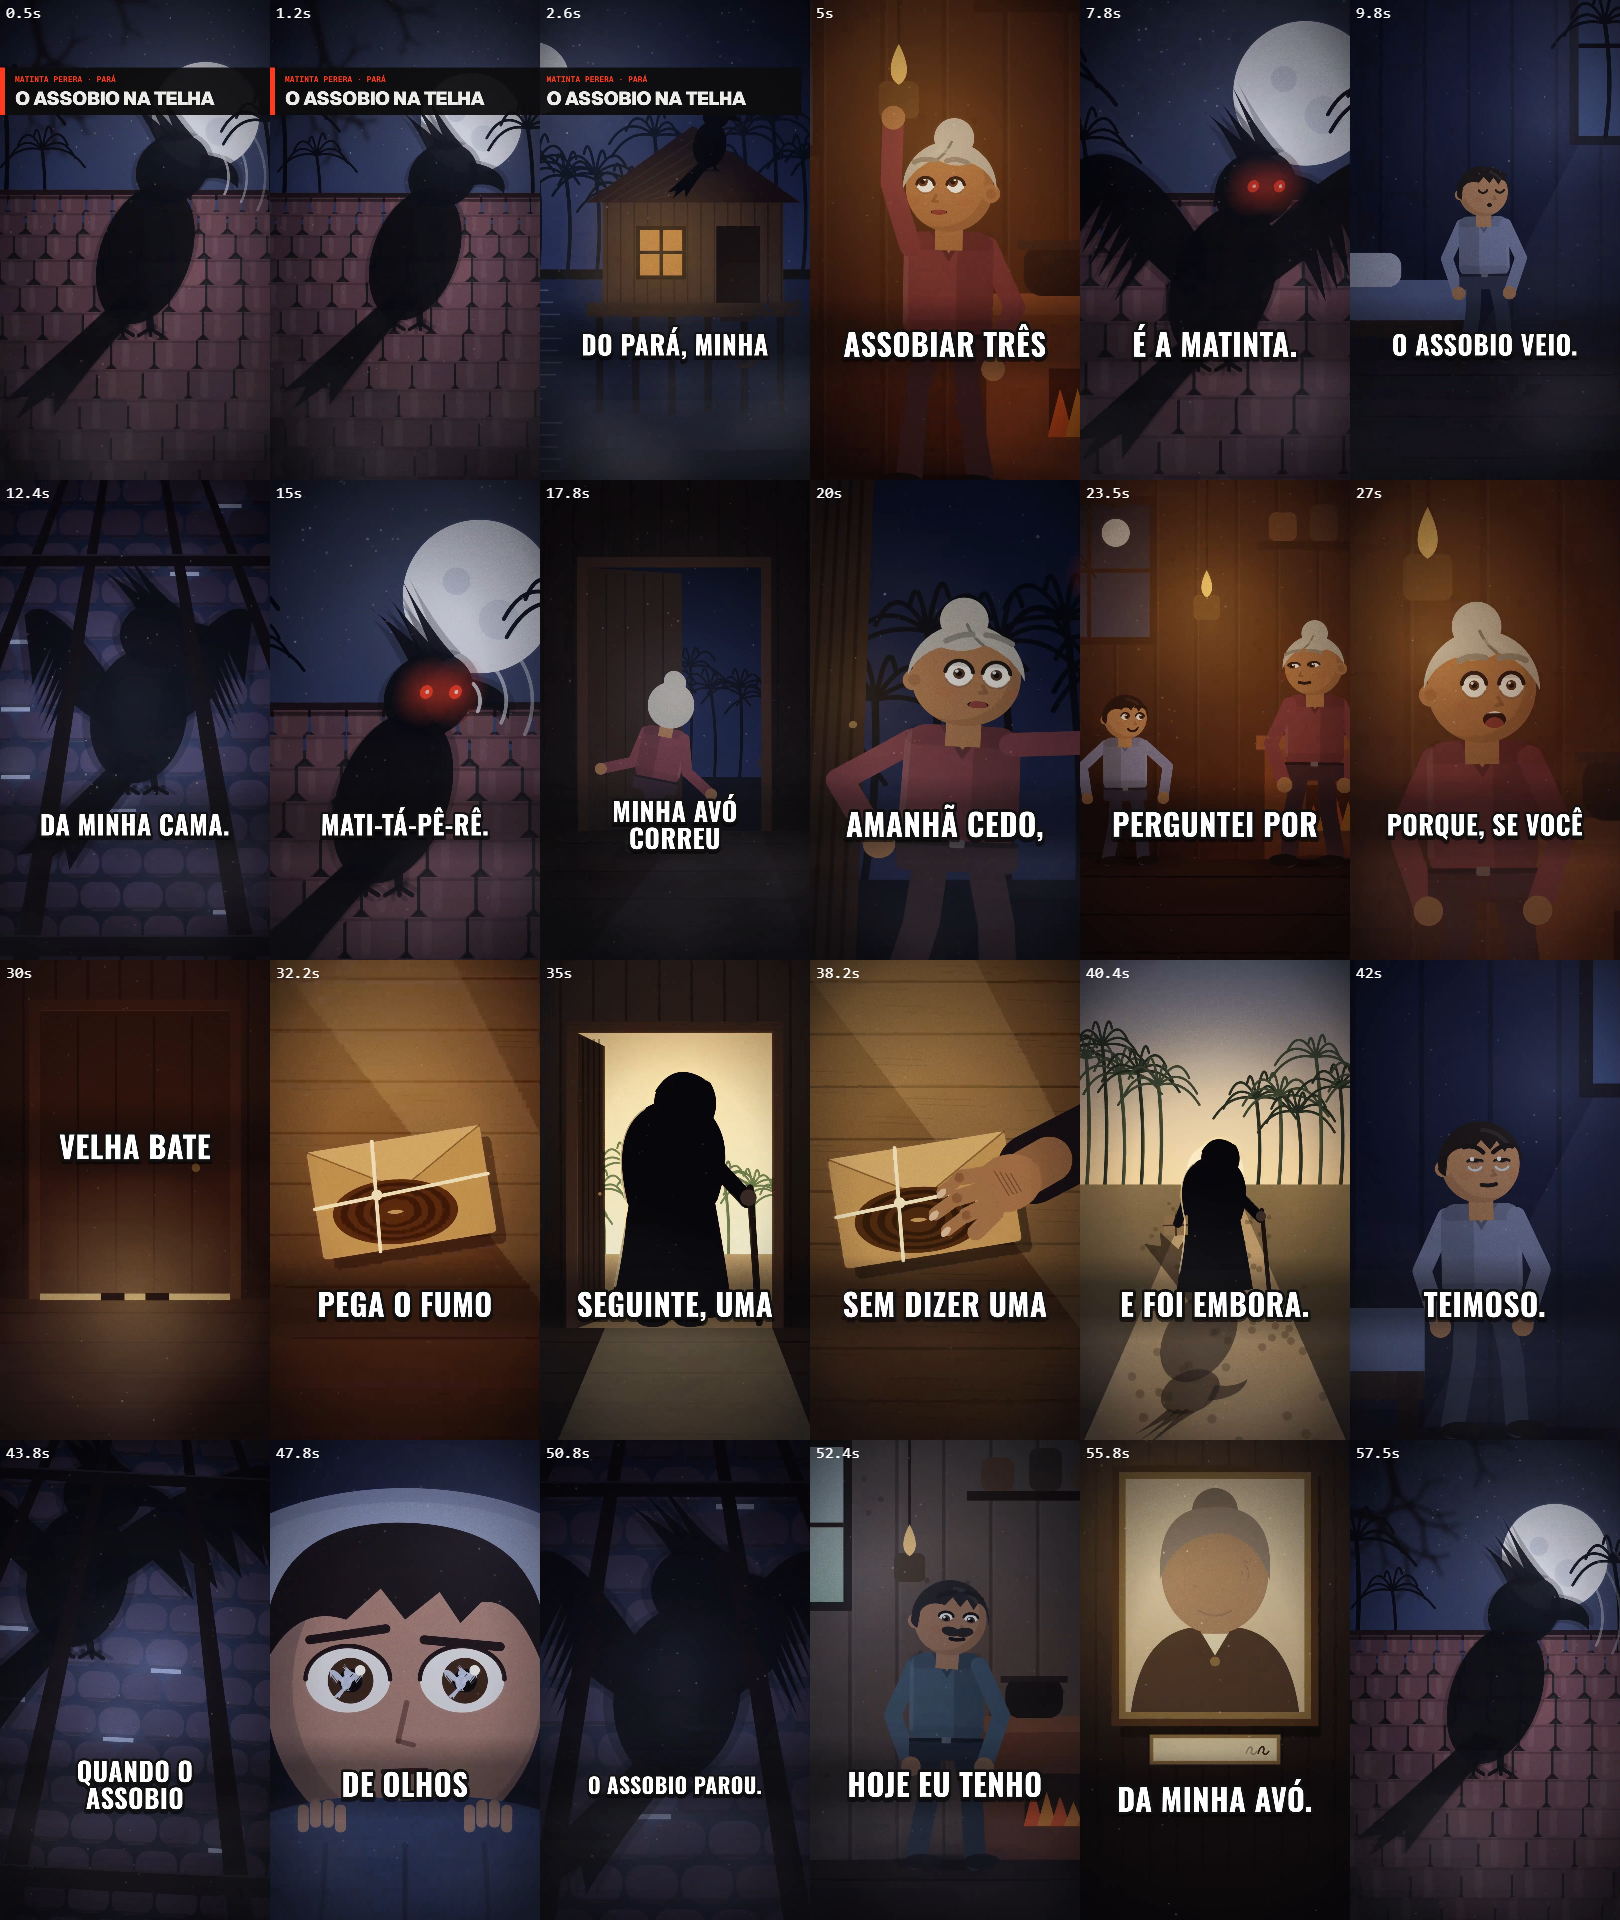
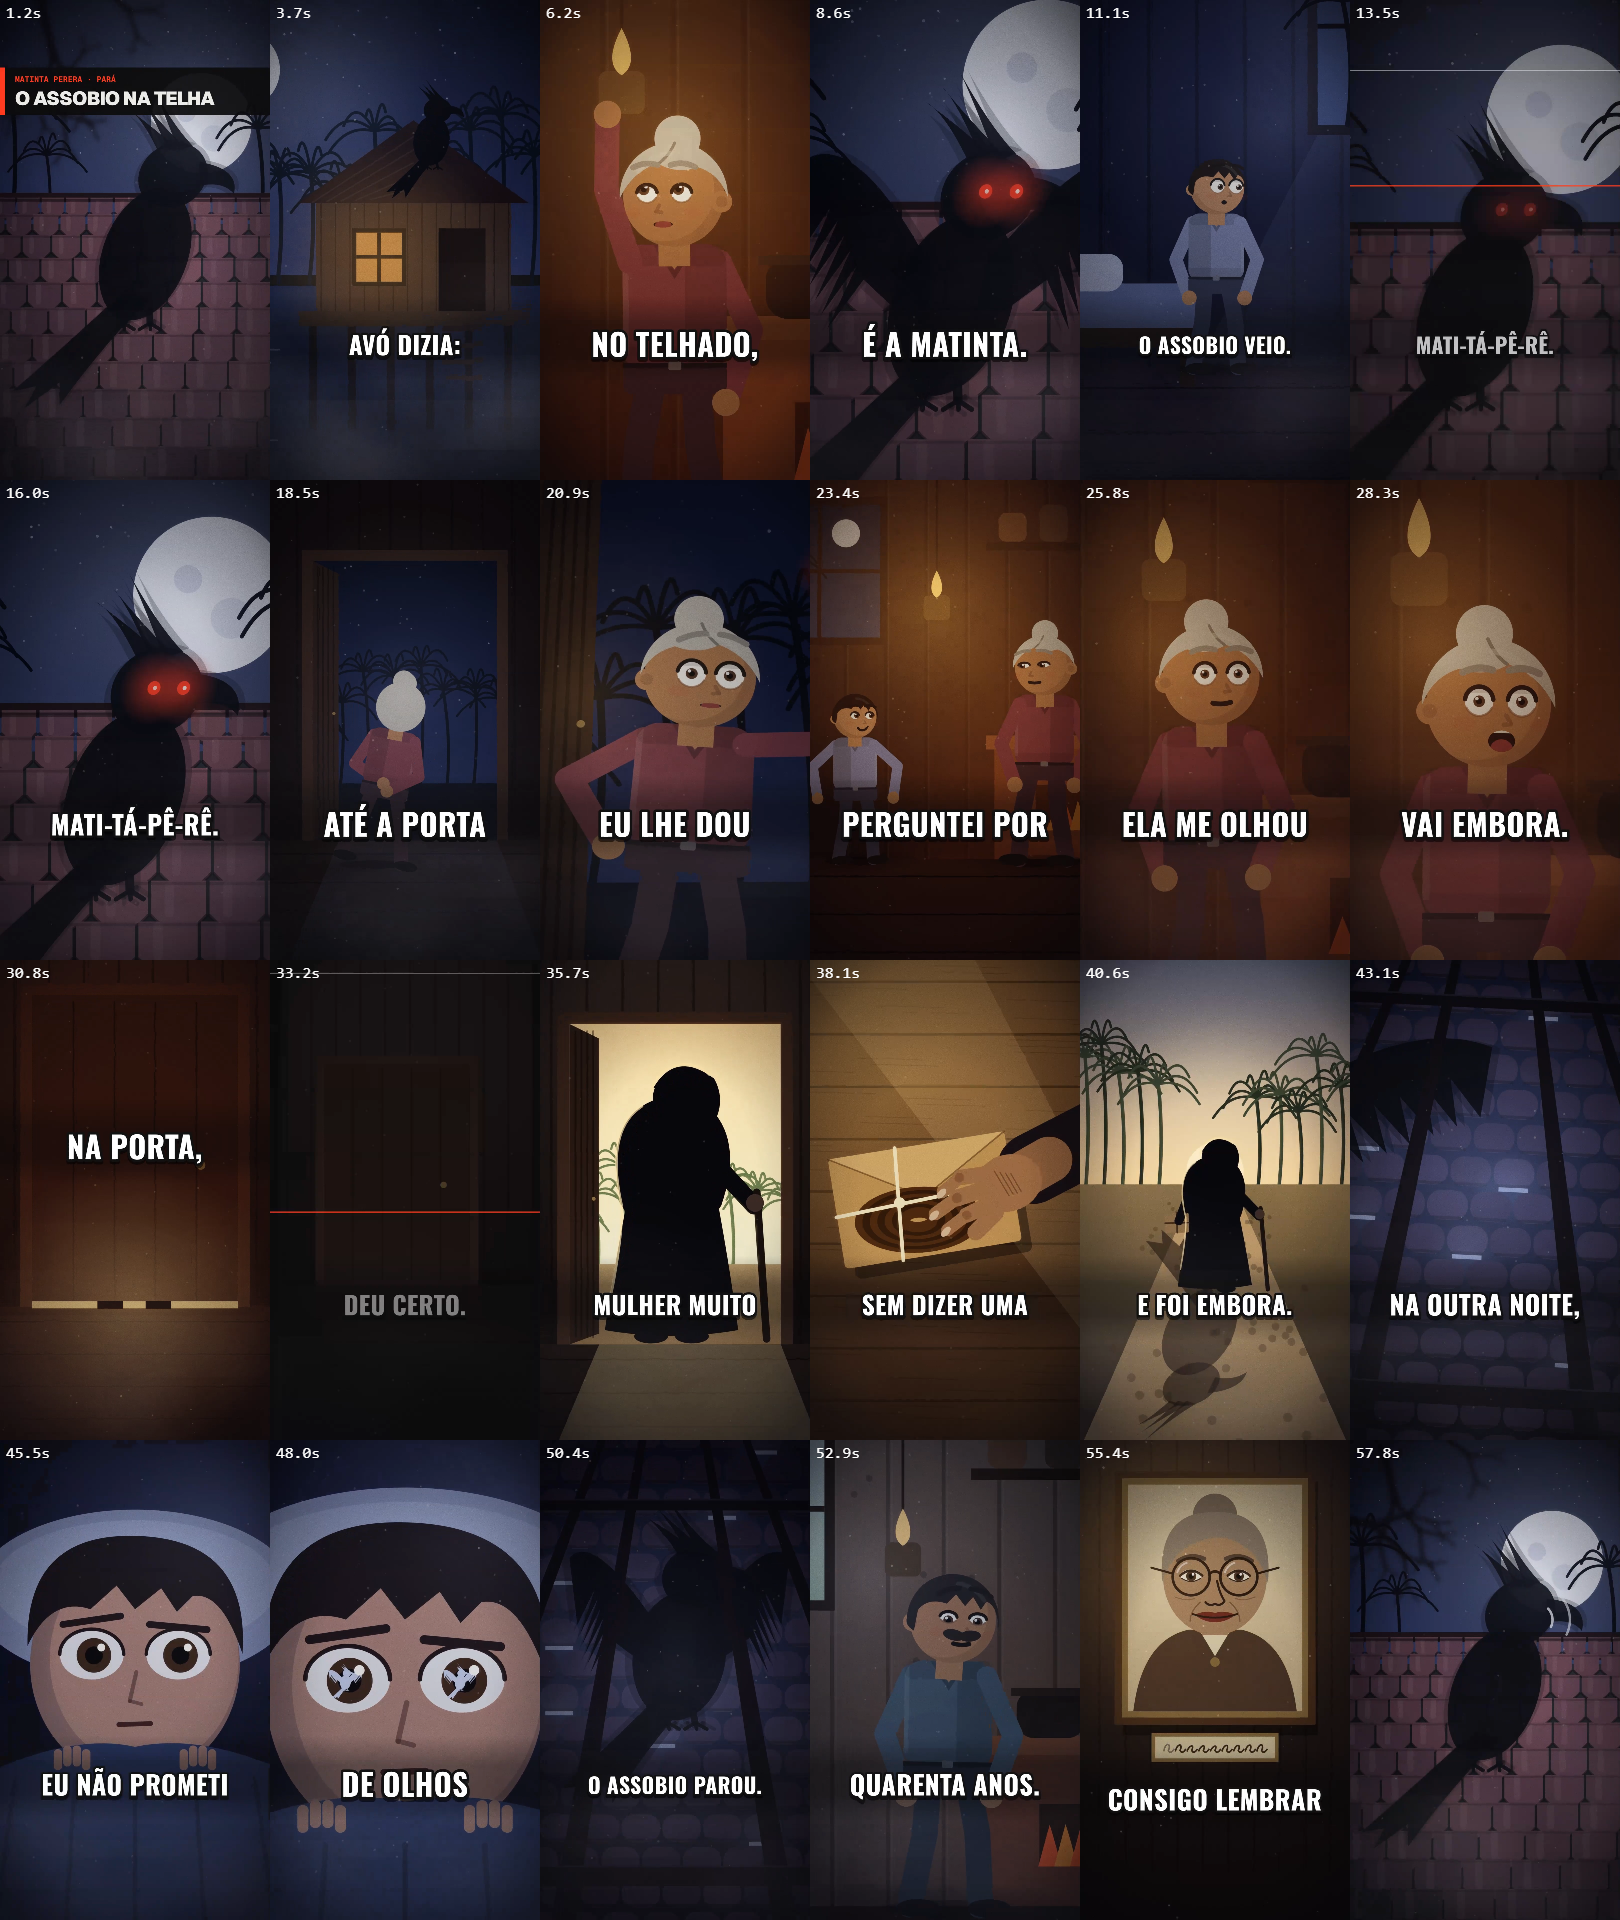
contos: retrato da avo com rosto nitido antes de se desmanchar (piloto)

diff --git a/Conteudo_Bit/Producao/serie/soltos1.js b/Conteudo_Bit/Producao/serie/soltos1.js
@@ -195,10 +195,19 @@
     forma(g, '#4A3426', q => { q.moveTo(230, 1310); q.quadraticCurveTo(260, 1030, 440, 990); q.lineTo(640, 990); q.quadraticCurveTo(820, 1030, 850, 1310); }); poly(g, [[480, 990], [600, 990], [540, 1090]], '#E4D6B4'); circ(g, 540, 1112, 18, '#8A6A3A');
     circ(g, 540, 560, 84, '#7A6A5A'); elipse(g, 540, 790, 196, 220, '#A8825E'); rect(g, 490, 960, 100, 50, '#A8825E');
     forma(g, '#8C7C6A', q => { q.moveTo(340, 810); q.quadraticCurveTo(320, 540, 540, 545); q.quadraticCurveTo(765, 540, 740, 815); q.quadraticCurveTo(700, 660, 560, 640); q.quadraticCurveTo(390, 650, 340, 810); });
-    g.globalAlpha = a; g.strokeStyle = '#2A1A10'; g.fillStyle = '#2A1A10'; g.lineCap = 'round';
-    for (const ex of [462, 618]) { elipse(g, ex, 790, 24, 16, '#2A1A10', a); circ(g, ex + 7, 784, 5, '#EFE0BC', a); g.globalAlpha = a; g.lineWidth = 7; g.beginPath(); g.moveTo(ex - 40, 748); g.quadraticCurveTo(ex, 730, ex + 40, 748); g.stroke(); g.lineWidth = 4; g.beginPath(); g.arc(ex, 792, 46, 0, TAU); g.stroke(); }
-    g.globalAlpha = a; g.lineWidth = 7; g.beginPath(); g.moveTo(540, 810); g.lineTo(522, 876); g.lineTo(552, 882); g.stroke(); g.beginPath(); g.moveTo(480, 925); g.quadraticCurveTo(540, 962, 600, 925); g.stroke(); g.lineWidth = 4; g.beginPath(); g.moveTo(508, 792); g.lineTo(572, 792); g.stroke(); g.globalAlpha = 1;
-    for (let i = 0; i < 46; i++) { const q = clamp(k * 1.6 - rnd(i + 8) * 0.6); if (q > 0) circ(g, 420 + rnd(i + 1) * 240, 730 + rnd(i + 90) * 230 - q * 60 * rnd(i + 4), 10 + q * 44 * rnd(i + 20), '#A8825E', q * 0.85); } // o rosto se desmancha
+    // traços grandes e contrastados (lidos em tela de celular); tudo com o mesmo alfa para sumir junto
+    const tinta = '#1E100A', traco = (c, lw, fn, al = 1) => { g.globalAlpha = a * al; g.strokeStyle = c; g.lineWidth = lw; g.lineCap = 'round'; g.lineJoin = 'round'; g.beginPath(); fn(g); g.stroke(); g.globalAlpha = 1; };
+    for (const ex of [450, 630]) { const d = ex < 540 ? -1 : 1;
+      elipse(g, ex, 786, 40, 24, '#F4EBD6', a); circ(g, ex, 788, 19, '#3A2214', a); circ(g, ex, 788, 10, '#050302', a); circ(g, ex + 7, 781, 5, '#FFFFFF', a);
+      traco(tinta, 9, q => { q.moveTo(ex - 42, 786); q.quadraticCurveTo(ex, 748, ex + 42, 786); }); traco(tinta, 4, q => { q.moveTo(ex - 36, 796); q.quadraticCurveTo(ex, 820, ex + 36, 796); }); // pálpebras
+      traco('#4A3A2E', 15, q => { q.moveTo(ex - 50, 722 + (d < 0 ? 8 : 0)); q.quadraticCurveTo(ex, 698, ex + 50, 722 + (d > 0 ? 8 : 0)); }); // sobrancelha
+      traco(tinta, 10, q => q.arc(ex, 790, 70, 0, TAU)); traco(tinta, 8, q => { q.moveTo(ex + d * 70, 778); q.lineTo(ex + d * 150, 756); }); traco('#FFFFFF', 7, q => q.arc(ex, 790, 55, Math.PI * 1.1, Math.PI * 1.4), 0.55); // óculos, haste e reflexo
+      traco('#6A4630', 4, q => { q.moveTo(ex + d * 62, 866); q.quadraticCurveTo(ex + d * 20, 884, ex - d * 14, 872); }, 0.6); } // olheira
+    traco(tinta, 10, q => { q.moveTo(520, 778); q.quadraticCurveTo(540, 762, 560, 778); }); // ponte
+    traco(tinta, 8, q => { q.moveTo(548, 806); q.quadraticCurveTo(556, 850, 576, 882); q.quadraticCurveTo(560, 904, 540, 892); q.quadraticCurveTo(520, 904, 504, 886); }); // nariz
+    for (const d of [-1, 1]) traco('#6A4630', 5, q => { q.moveTo(540 + d * 56, 886); q.quadraticCurveTo(540 + d * 94, 920, 540 + d * 94, 958); }, 0.75); // vincos
+    forma(g, '#6E241C', q => { q.moveTo(462, 934); q.quadraticCurveTo(505, 914, 540, 927); q.quadraticCurveTo(575, 914, 618, 934); q.quadraticCurveTo(540, 990, 462, 934); }, a); traco(tinta, 7, q => { q.moveTo(456, 931); q.quadraticCurveTo(540, 958, 624, 931); }); // boca
+    for (let i = 0; i < 46; i++) { const q = clamp(k * 1.6 - rnd(i + 8) * 0.6); if (q > 0) circ(g, 390 + rnd(i + 1) * 300, 710 + rnd(i + 90) * 270 - q * 60 * rnd(i + 4), 10 + q * 44 * rnd(i + 20), '#A8825E', q * 0.85); } // o rosto se desmancha
     g.restore();
     rect(g, 300, 1380, 480, 110, '#8A6A3A'); rect(g, 314, 1394, 452, 82, '#D8C8A0');
     for (let i = 0; i < 9; i++) { const x = 346 + i * 44, q = clamp(1 - (k * 9 - i)); if (q <= 0) continue; g.globalAlpha = q; g.strokeStyle = '#3A2616'; g.lineWidth = 6; g.beginPath(); g.moveTo(x, 1450); g.bezierCurveTo(x + 8, 1410 + rnd(i) * 20, x + 30, 1420, x + 18, 1446); g.quadraticCurveTo(x + 26, 1462, x + 40, 1440); g.stroke(); g.globalAlpha = 1; } // nome em letra cursiva ilegível, apagando

diff --git a/Conteudo_Bit/Producao/serie/contato.html b/Conteudo_Bit/Producao/serie/contato.html
@@ -1,12 +1,13 @@
 <!doctype html><html><head><meta charset="utf-8"><title>contato</title><style>body{margin:0;background:#111;color:#ddd;font:14px monospace}canvas{display:block}</style></head><body>
 <script>
-// Folha de contato e medição do MP4 FINAL. ?f=contos-dia1/01_a_causa_secreta.mp4 (em Semanal/) · &n=12 quadros
+// Folha de contato e medição do MP4 FINAL. ?f=contos-dia1/01_a_causa_secreta.mp4 (em Semanal/) · &n=12 quadros, ou &t=1,5.5,9 (instantes exatos)
 (async () => {
-  const q = new URLSearchParams(location.search), f = q.get('f'), n = +(q.get('n') || 12), url = '/Semanal/' + f;
+  const q = new URLSearchParams(location.search), f = q.get('f'), ts = q.get('t') ? q.get('t').split(',').map(Number) : null, n = ts ? ts.length : +(q.get('n') || 12), url = '/Semanal/' + f;
   const v = document.createElement('video'); v.muted = true; v.src = url; v.preload = 'auto'; await new Promise((r, j) => { v.onloadedmetadata = r; v.onerror = () => j(new Error('video')); });
   const d = v.duration, w = v.videoWidth, h = v.videoHeight, sw = 270, sh = 480, cols = 6, sheet = document.createElement('canvas'); sheet.width = sw * cols; sheet.height = sh * Math.ceil(n / cols); const g = sheet.getContext('2d');
-  for (let i = 0; i < n; i++) { const tt = Math.min(d - 0.2, (i + 0.5) * d / n); v.currentTime = tt; await new Promise(r => v.onseeked = r); g.drawImage(v, (i % cols) * sw, Math.floor(i / cols) * sh, sw, sh); g.fillStyle = '#fff'; g.font = '16px monospace'; g.fillText(tt.toFixed(1) + 's', (i % cols) * sw + 6, Math.floor(i / cols) * sh + 18); }
+  for (let i = 0; i < n; i++) { const tt = ts ? ts[i] : Math.min(d - 0.2, (i + 0.5) * d / n); v.currentTime = tt; await new Promise(r => v.onseeked = () => setTimeout(r, 600)); /* espera o quadro novo ser apresentado (sem isso sai quadro velho ou vazio) */ g.drawImage(v, (i % cols) * sw, Math.floor(i / cols) * sh, sw, sh); g.fillStyle = '#fff'; g.font = '16px monospace'; g.fillText(tt.toFixed(1) + 's', (i % cols) * sw + 6, Math.floor(i / cols) * sh + 18); }
   document.body.append(sheet);
+  v.removeAttribute('src'); v.load(); // solta a conexao do video antes do fetch (o serve.ps1 atende um pedido por vez)
   const ac = new OfflineAudioContext(2, 48000, 48000), buf = await ac.decodeAudioData(await (await fetch(url)).arrayBuffer()); let pk = 0, clip = 0, e = 0, n2 = 0, sil = 0, run = 0, maxSil = 0, maxAt = 0; const c0 = buf.getChannelData(0), sr = buf.sampleRate;
   for (let i = 0; i < c0.length; i++) { const a = Math.abs(c0[i]); if (a > pk) pk = a; if (a >= 0.999) clip++; e += a * a; n2++; if (a < 0.003) { run++; if (run > maxSil) { maxSil = run; maxAt = i - run; } } else run = 0; }
   window.INFO = { arquivo: f, duracaoVideo: +d.toFixed(2), duracaoAudio: +buf.duration.toFixed(2), largura: w, altura: h, picoDb: +(20 * Math.log10(pk)).toFixed(1), clip, rmsDb: +(10 * Math.log10(e / n2)).toFixed(1), maiorSilencioSeg: +(maxSil / sr).toFixed(2), maiorSilencioEm: +(maxAt / sr).toFixed(1) };
